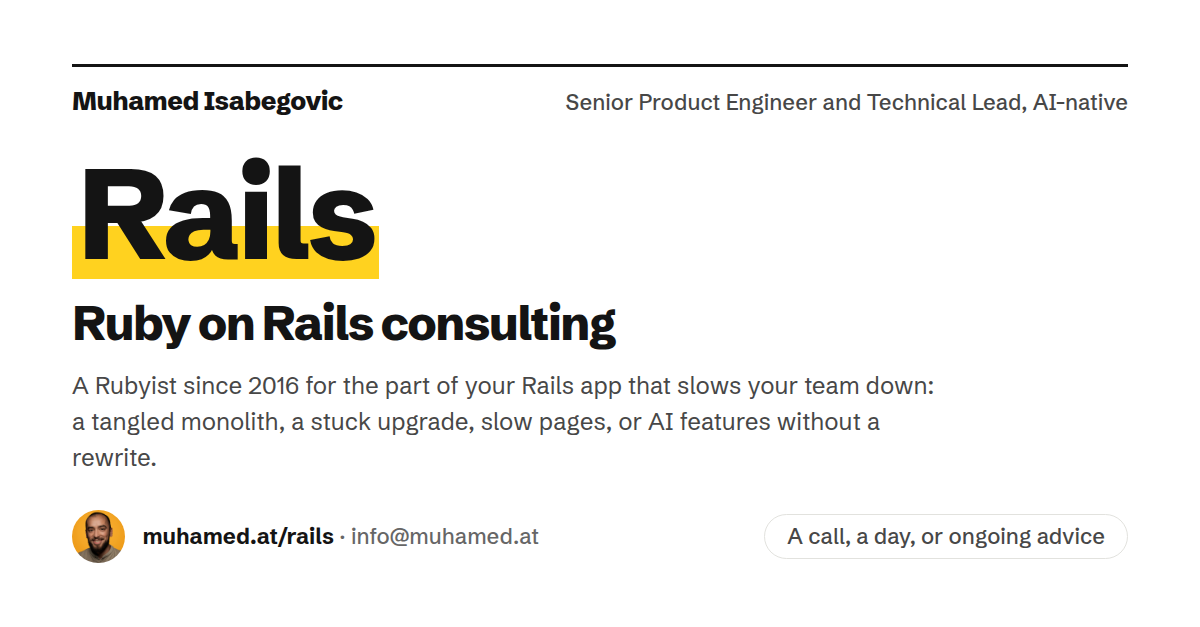
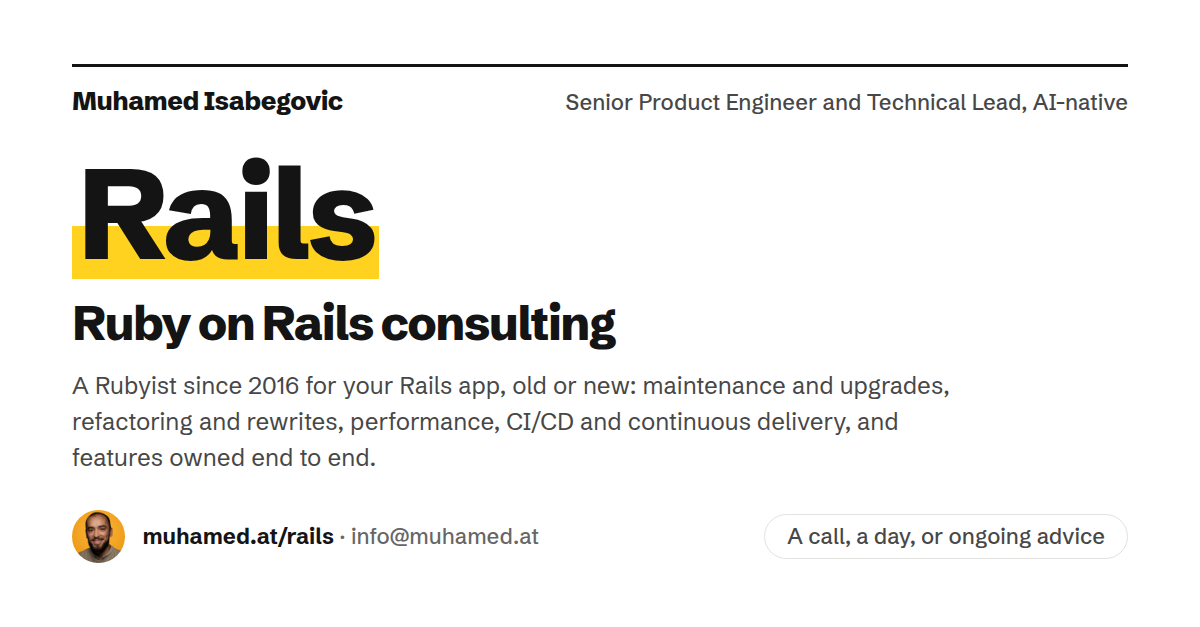
rails: lead with the work, from the first release to the tenth year
/rails/ opens on a menu of the Rails work buyers look for: maintenance
and upgrades, refactoring, rewrites, performance, CI/CD and continuous
delivery, team processes, end to end, and AI features. The proof
sections are gone; the facts and the recommendation carry it. Every
shorter Rails description, the share card and the post images match.

Part of the homepage ADR's twenty-first change
(wiki/muhamed.github.io/adrs/professional-homepage-with-brain-and-writing.md).

Claude-Session: https://claude.ai/code/session_018EvDWHa9uXo9Ds16L2fdLz

Changed region(s): [[0.0617, 0.6061, 0.8017, 0.7576]]

diff --git a/.github/scripts/render-social-images.js b/.github/scripts/render-social-images.js
@@ -57,7 +57,7 @@ const services = [
   { slug: 'review', name: 'Review', title: 'Architecture review', text: 'A short, fixed-scope look at your codebase and system: what holds, what will break, and what to fix first.', format: 'Fixed scope, one to two weeks' },
   { slug: 'ai-native', name: 'AI-native', title: 'Make your company AI-native', text: 'How you build and what you build. I set up a knowledge base your people and agents work from, with architecture rules checked in CI, and build AI features into your product that hold up in production, using open-source tools I build and teach.', format: 'Workshops, then setup in your codebase' },
   // Rails has its own page (files/rails.html), so its post points there.
-  { slug: 'rails', name: 'Rails', title: 'Ruby on Rails consulting', text: 'A Rubyist since 2016 for the part of your Rails app that slows your team down: a tangled monolith, a stuck upgrade, slow pages, or AI features without a rewrite.', format: 'A call, a day, or ongoing advice', url: 'muhamed.at/rails' },
+  { slug: 'rails', name: 'Rails', title: 'Ruby on Rails consulting', text: 'A Rubyist since 2016 for your Rails app, old or new: maintenance and upgrades, refactoring and rewrites, performance, CI/CD and continuous delivery, and features owned end to end.', format: 'A call, a day, or ongoing advice', url: 'muhamed.at/rails' },
 ];
 
 function servicePost(s, w, h) {
@@ -96,7 +96,7 @@ function railsShare(w, h) {
   return `<div class="stage" style="--w:${w}px;--h:${h}px;display:grid;grid-template-columns:1fr 400px;">
     <div style="padding:64px 56px 56px 72px;display:grid;grid-template-rows:auto 1fr auto">
       <div class="rule" style="padding-top:18px;display:flex;justify-content:space-between;align-items:baseline"><span class="wordmark" style="font-size:26px">Muhamed Isabegovic</span><span class="muted" style="font-size:18px;font-weight:650;letter-spacing:.08em;text-transform:uppercase">Ruby on Rails consulting</span></div>
-      <h1 style="font-size:70px;align-self:center">For Rails apps that outgrew their <mark>first design</mark>.</h1>
+      <h1 style="font-size:70px;align-self:center">Rails apps, from the first release to the <mark>tenth year</mark>.</h1>
       <div class="muted" style="font-size:21px;font-weight:500;white-space:nowrap">Rubyist since 2016 · RubyConf Austria founder · <b style="color:var(--ink)">muhamed.at/rails</b></div>
     </div>
     <div style="background:var(--dark)"><img src="${photo}" alt="" style="width:100%;height:100%;object-fit:cover;object-position:50% 30%"></div>

diff --git a/files/rails.html b/files/rails.html
@@ -3,7 +3,7 @@ layout: default
 title: Ruby on Rails consulting
 permalink: /rails/
 image: /images/social/rails.png
-description: Ruby on Rails consulting from Muhamed Isabegovic, a Rubyist since 2016 and founder of RubyConf Austria, for Rails apps that outgrew their first design, stuck upgrades, slow pages and AI features without a rewrite.
+description: Ruby on Rails consulting from Muhamed Isabegovic, a Rubyist since 2016 and founder of RubyConf Austria. Maintenance and upgrades, refactoring and rewrites, performance, CI/CD and continuous delivery, team processes, end-to-end ownership and AI features.
 ---
 {%- comment -%}
   The Rails offer in full. Words in _data/rails.yml; the summary and format
@@ -52,21 +52,13 @@ description: Ruby on Rails consulting from Muhamed Isabegovic, a Rubyist since 2
     </dl>
   </header>
 
-  <section aria-labelledby="h-triggers">
+  <section aria-labelledby="h-work">
     <div class="section-head">
-      <h2 id="h-triggers" class="section-title">What teams bring me.</h2>
+      <h2 id="h-work" class="section-title">{{ r.work_title }}</h2>
     </div>
-    <div class="capabilities">
-      {% for t in r.triggers %}
-      <article class="capability">
-        <div class="capability-head">
-          <h3 class="capability-title">{{ t.problem }}</h3>
-          <p class="capability-text">{{ t.answer }}</p>
-        </div>
-        {% if t.proofs.size > 0 %}<ul class="proofs" role="list">{% for p in t.proofs %}<li>{{ p }}</li>{% endfor %}</ul>{% else %}<div></div>{% endif %}
-      </article>
-      {% endfor %}
-    </div>
+    <ul class="project-more rails-work" role="list">
+      {% for w in r.work %}<li><h3>{{ w.name }}</h3><div class="project-text"><p>{{ w.text }}</p></div></li>{% endfor %}
+    </ul>
   </section>
 
   <section id="formats" class="svc-section" aria-labelledby="h-formats">
@@ -77,6 +69,7 @@ description: Ruby on Rails consulting from Muhamed Isabegovic, a Rubyist since 2
     <p class="svc-where">{{ r.formats.more }} <a class="text-link" href="{{ site.baseurl }}/services/">Services{{ arr }}</a></p>
     <p class="svc-where rails-booked">{{ r.formats.booked }}</p>
   </section>
+
 
 </div>
 

diff --git a/files/assets/site.css b/files/assets/site.css
@@ -522,6 +522,10 @@ mark {
 @media (max-width: 960px) { .rails-hero-grid { grid-template-columns: 1fr; } }
 .rails-page .capabilities { margin-top: 0; }
 .rails-booked { font-weight: 600; color: var(--ink); }
+.project-more.rails-work { grid-template-columns: repeat(4, minmax(0, 1fr)); }
+.rails-work-list { grid-template-columns: repeat(2, minmax(0, 1fr)); gap: 0.75rem 1.5rem; }
+@media (max-width: 960px) { .project-more.rails-work { grid-template-columns: repeat(2, minmax(0, 1fr)); } }
+@media (max-width: 560px) { .project-more.rails-work, .rails-work-list { grid-template-columns: 1fr; } }
 .rails-community { margin-top: var(--section); }
 .rails-community .community-list a { color: var(--on-dark); text-decoration-color: var(--yellow); }
 .offer-more { margin-top: 1.25rem; }

diff --git a/files/_includes/home-page.html b/files/_includes/home-page.html
@@ -98,8 +98,8 @@
         </div>
       </div>
       <div class="rails-body">
-        <h3 class="offer-label">Sound familiar?</h3>
-        <ul class="proofs" role="list">{% for t in r.triggers %}<li>{{ t.problem }}</li>{% endfor %}</ul>
+        <h3 class="offer-label">{{ r.work_title | remove: "." }}</h3>
+        <ul class="proofs rails-work-list" role="list">{% for w in r.work %}<li>{{ w.name }}</li>{% endfor %}</ul>
         <dl class="rails-facts rails-facts-band">
           {% for f in r.facts %}<div><dt>{{ f.value }}</dt><dd>{{ f.label }}</dd></div>{% endfor %}
         </dl>

diff --git a/wiki/muhamed.github.io/adrs/professional-homepage-with-brain-and-writing.md b/wiki/muhamed.github.io/adrs/professional-homepage-with-brain-and-writing.md
@@ -403,17 +403,21 @@ counts.** Rails becomes a fifth service, "Ruby on Rails consulting", for the
 owner to market himself as a Rubyist. On the homepage it is its own band under
 the grid of four, so the grid keeps its 2×2 and the page does not read as
 Rails-only; the full offer is a new page, `/rails/`, linked from the band, the
-Rails entry on `/services/` and the footer. Both start from the buyer's
-problem ("For Rails apps that outgrew their first design."), list six problems
-teams bring, each with what he does and proof from the evidence store or the
-public record (enola's `query-loops` check, per enola's docs/EXPLAINERS.md),
-show four checkable Rubyist facts (Ruby since 2016, RubyConf Austria founded,
-EuRuKo 2024 organised, four gems), Zlatko's recommendation word for word, and
-three formats: a call, a day in the code, a few hours a month. No capacity
-promise: the page invites everyone to write and says that, if he is booked, he
-will say so and point to someone good. Upgrades and performance work are on
-the owner's word, not yet in the evidence store, and carry no proof line
-except the enola check. The words live in `files/_data/rails.yml`; the name,
+Rails entry on `/services/`, the contact page and the footer. The page opens
+on "Rails apps, from the first release to the tenth year.", with four
+checkable Rubyist facts (Ruby since 2016, RubyConf Austria founded, EuRuKo 2024
+organised, four gems) and Zlatko's recommendation word for word, then a menu
+of the work in the owner's terms: maintenance and upgrades, refactoring (back
+to Rails conventions), rewrites, performance, CI/CD and continuous delivery
+(trunk-based development, feature flags), team processes, end-to-end
+ownership and AI features; then three formats: a call, a day in the code, a
+few hours a month. The homepage band lists the same menu. A problem-and-proof
+layout, then a "Done before" proof list, were previewed first and dropped:
+the owner found the proof too specific and weak, and the menu is what buyers
+look for. No capacity promise: the page invites everyone to write and says
+that, if he is booked, he will say so and point to someone good. Upgrades,
+performance, trunk-based development and feature flags are on the owner's
+word, not yet in the evidence store. The words live in `files/_data/rails.yml`; the name,
 format and summary stay in `home.yml` (services:) and the email in
 `services.yml`. In the same change, the site stops quoting a client's customer
 count: "8,500+ companies" is gone from `/work/`, `/rails/` and llms.txt, kept
@@ -482,8 +486,15 @@ someone who would consider hiring me", "The site should always invite folks to
 reach out... I can also recommend someone if I am not available", upgrades and
 performance confirmed as his work, "Keep the full old title", "idk if I want to
 brag too much about teamtailor facts like the 8500 companies", and "keep it on
-the CV, commit the rest". The formats and the wording are the agent's drafts,
-for the owner to adjust.
+the CV, commit the rest". Then, on the page itself: "some of these sound too
+specific... might weird them out", "shipping behind feature flags,
+refactoring, rewrites, maintenance of old Ruby/Rails projects... managing the
+entire lifecycle end to end... the things you mention dont sell that well",
+"done before could also maybe even go", "introducing and optimizing
+processes... improving CI/CD practices... continous delivery with trunk based
+deployments", "Rails best practices", and "ok, sounds good" to the wider
+headline and the shorter copy brought in line. The formats and the wording are
+the agent's drafts, for the owner to adjust.
 
 ## Related
 

diff --git a/log/log.md b/log/log.md
@@ -290,3 +290,5 @@
    by: agent
 - site: /rails/ proofs in plain words on the owner's note ("some of these sound too specific... might weird them out"). Upgrades: "I keep my own Rails apps on current Ruby and Rails, Ruby 4.0 and Rails 8.1 today" (usput.ba 57858a5, treasure_hunt 583cb56). Performance: "Fixed pages that got slower as the data grew, by letting the database do the filtering and paging, and taking the queries out of loops" (usput.ba 14c2829, 0937f81; timings and query counts left out). The enola query-loops line is dropped, and the acquisition proof loses its stack detail. Searched first: the hireable evidence store holds no upgrade or performance story.
    by: agent
+- site: /rails/ rebuilt around the work, on the owner's notes ("the things you mention dont sell that well"; "done before could also maybe even go"). It opens on "Rails apps, from the first release to the tenth year." and a menu of eight: maintenance and upgrades, refactoring (with Rails conventions, the owner's "best practices"), rewrites, performance, CI/CD and continuous delivery (trunk-based development and feature flags on the owner's word), team processes, end to end, AI features. The problem-and-proof groups and the proof list are gone; the facts and Zlatko's quote carry the proof. The homepage band lists the menu. The Rails summary on the homepage and /services/, the /services/ details, the contact card, llms.txt, the 404 link, the share card and the Rails post images now say the same.
+   by: agent

diff --git a/files/_pages/contact.md b/files/_pages/contact.md
@@ -18,7 +18,7 @@ description: How to reach Muhamed Isabegovic about building something with your 
   </section>
   <section class="contact-option" id="rails">
     <h2>Your Rails app</h2>
-    <p>Your Rails app outgrew its first design: a tangled monolith, a stuck upgrade, slow pages, or AI features you want without a rewrite.</p>
+    <p>You need a Rubyist on your Rails app: maintenance and upgrades, refactoring or a rewrite, performance, CI/CD and continuous delivery, or AI features.</p>
     <p class="contact-hint">Useful to include: your app and its Rails and Ruby versions, what slows you down, and whether a call, a day or ongoing help fits. More on <a href="/rails/">Rails consulting</a>.</p>
     <a class="button" href="{{ rmail | strip }}">{{ rd.email.label }}<svg class="arr" viewBox="0 0 16 12" aria-hidden="true"><path d="M1 6h13M9 1.5 14 6l-5 4.5"/></svg></a>
   </section>

diff --git a/files/404.md b/files/404.md
@@ -8,7 +8,7 @@ intro: This page does not exist, or it has moved. One of these is probably what 
 
 - [Home](/): who I am and how I can help
 - [Services](/services/): how teams work with me
-- [Rails consulting](/rails/): for Rails apps that outgrew their first design
+- [Rails consulting](/rails/): Ruby on Rails work, from new builds to older apps
 - [Projects](/projects/): the tools I build and the things I make for fun
 - [Writing](/writing/) and [the brain](/brain/): posts and notes
 - [CV](/cv/)
